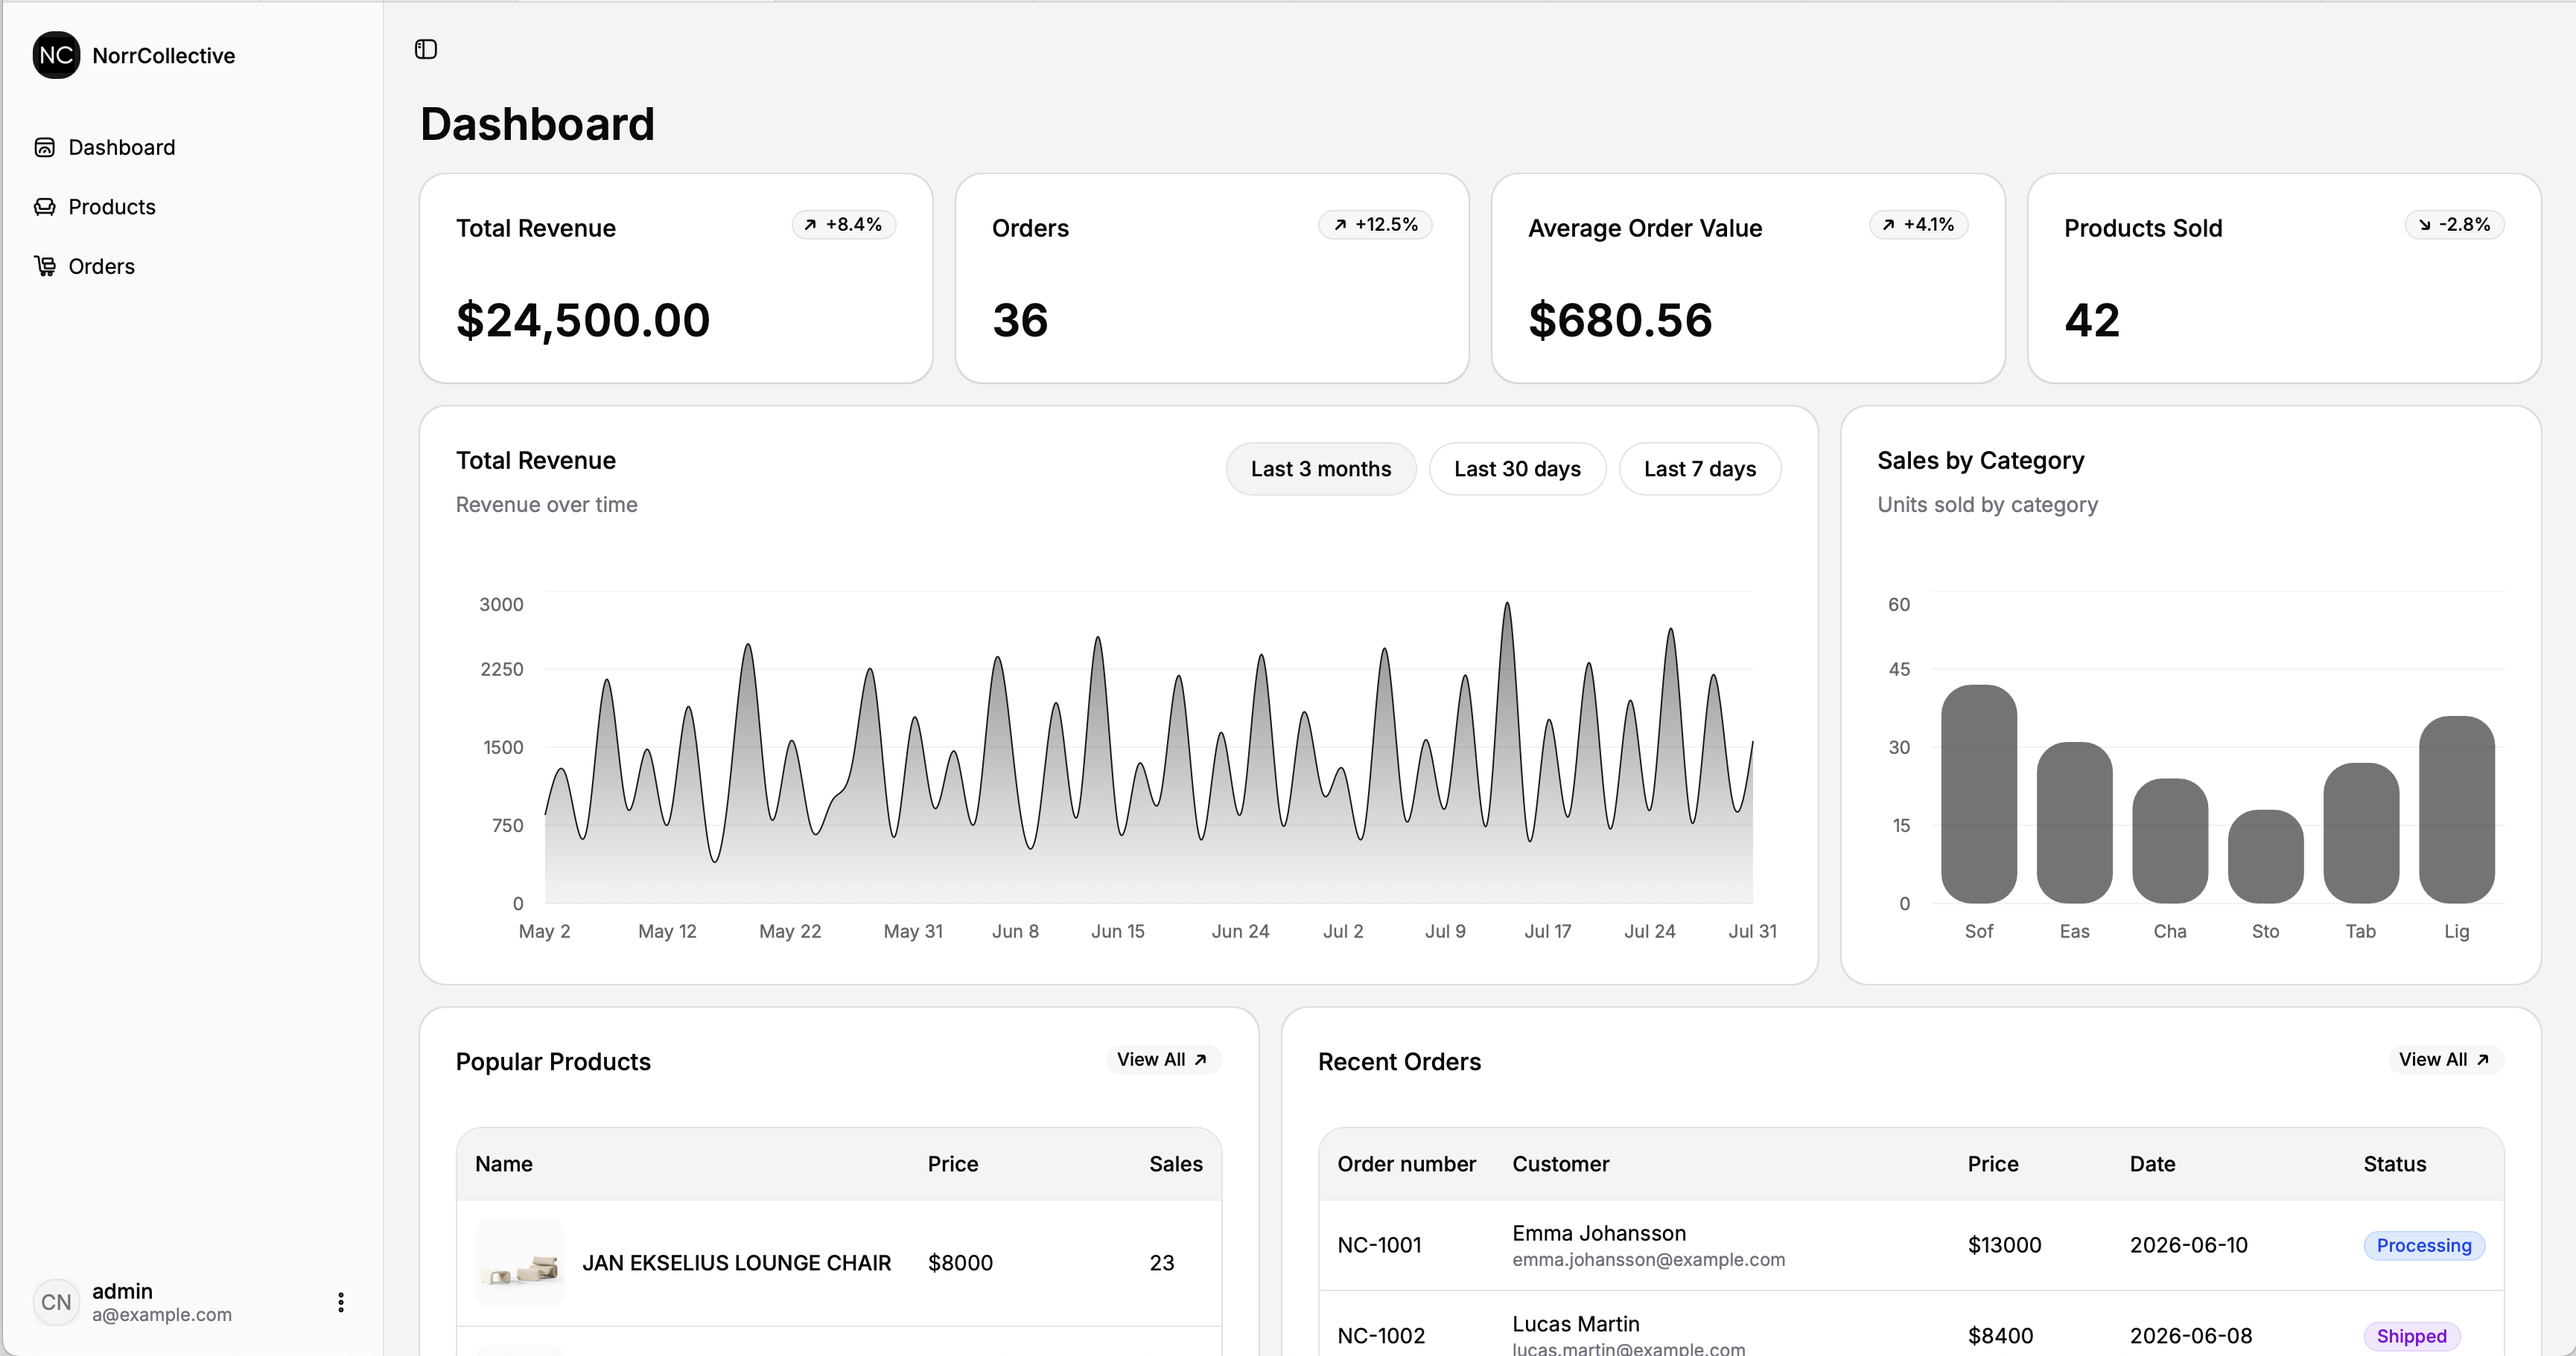
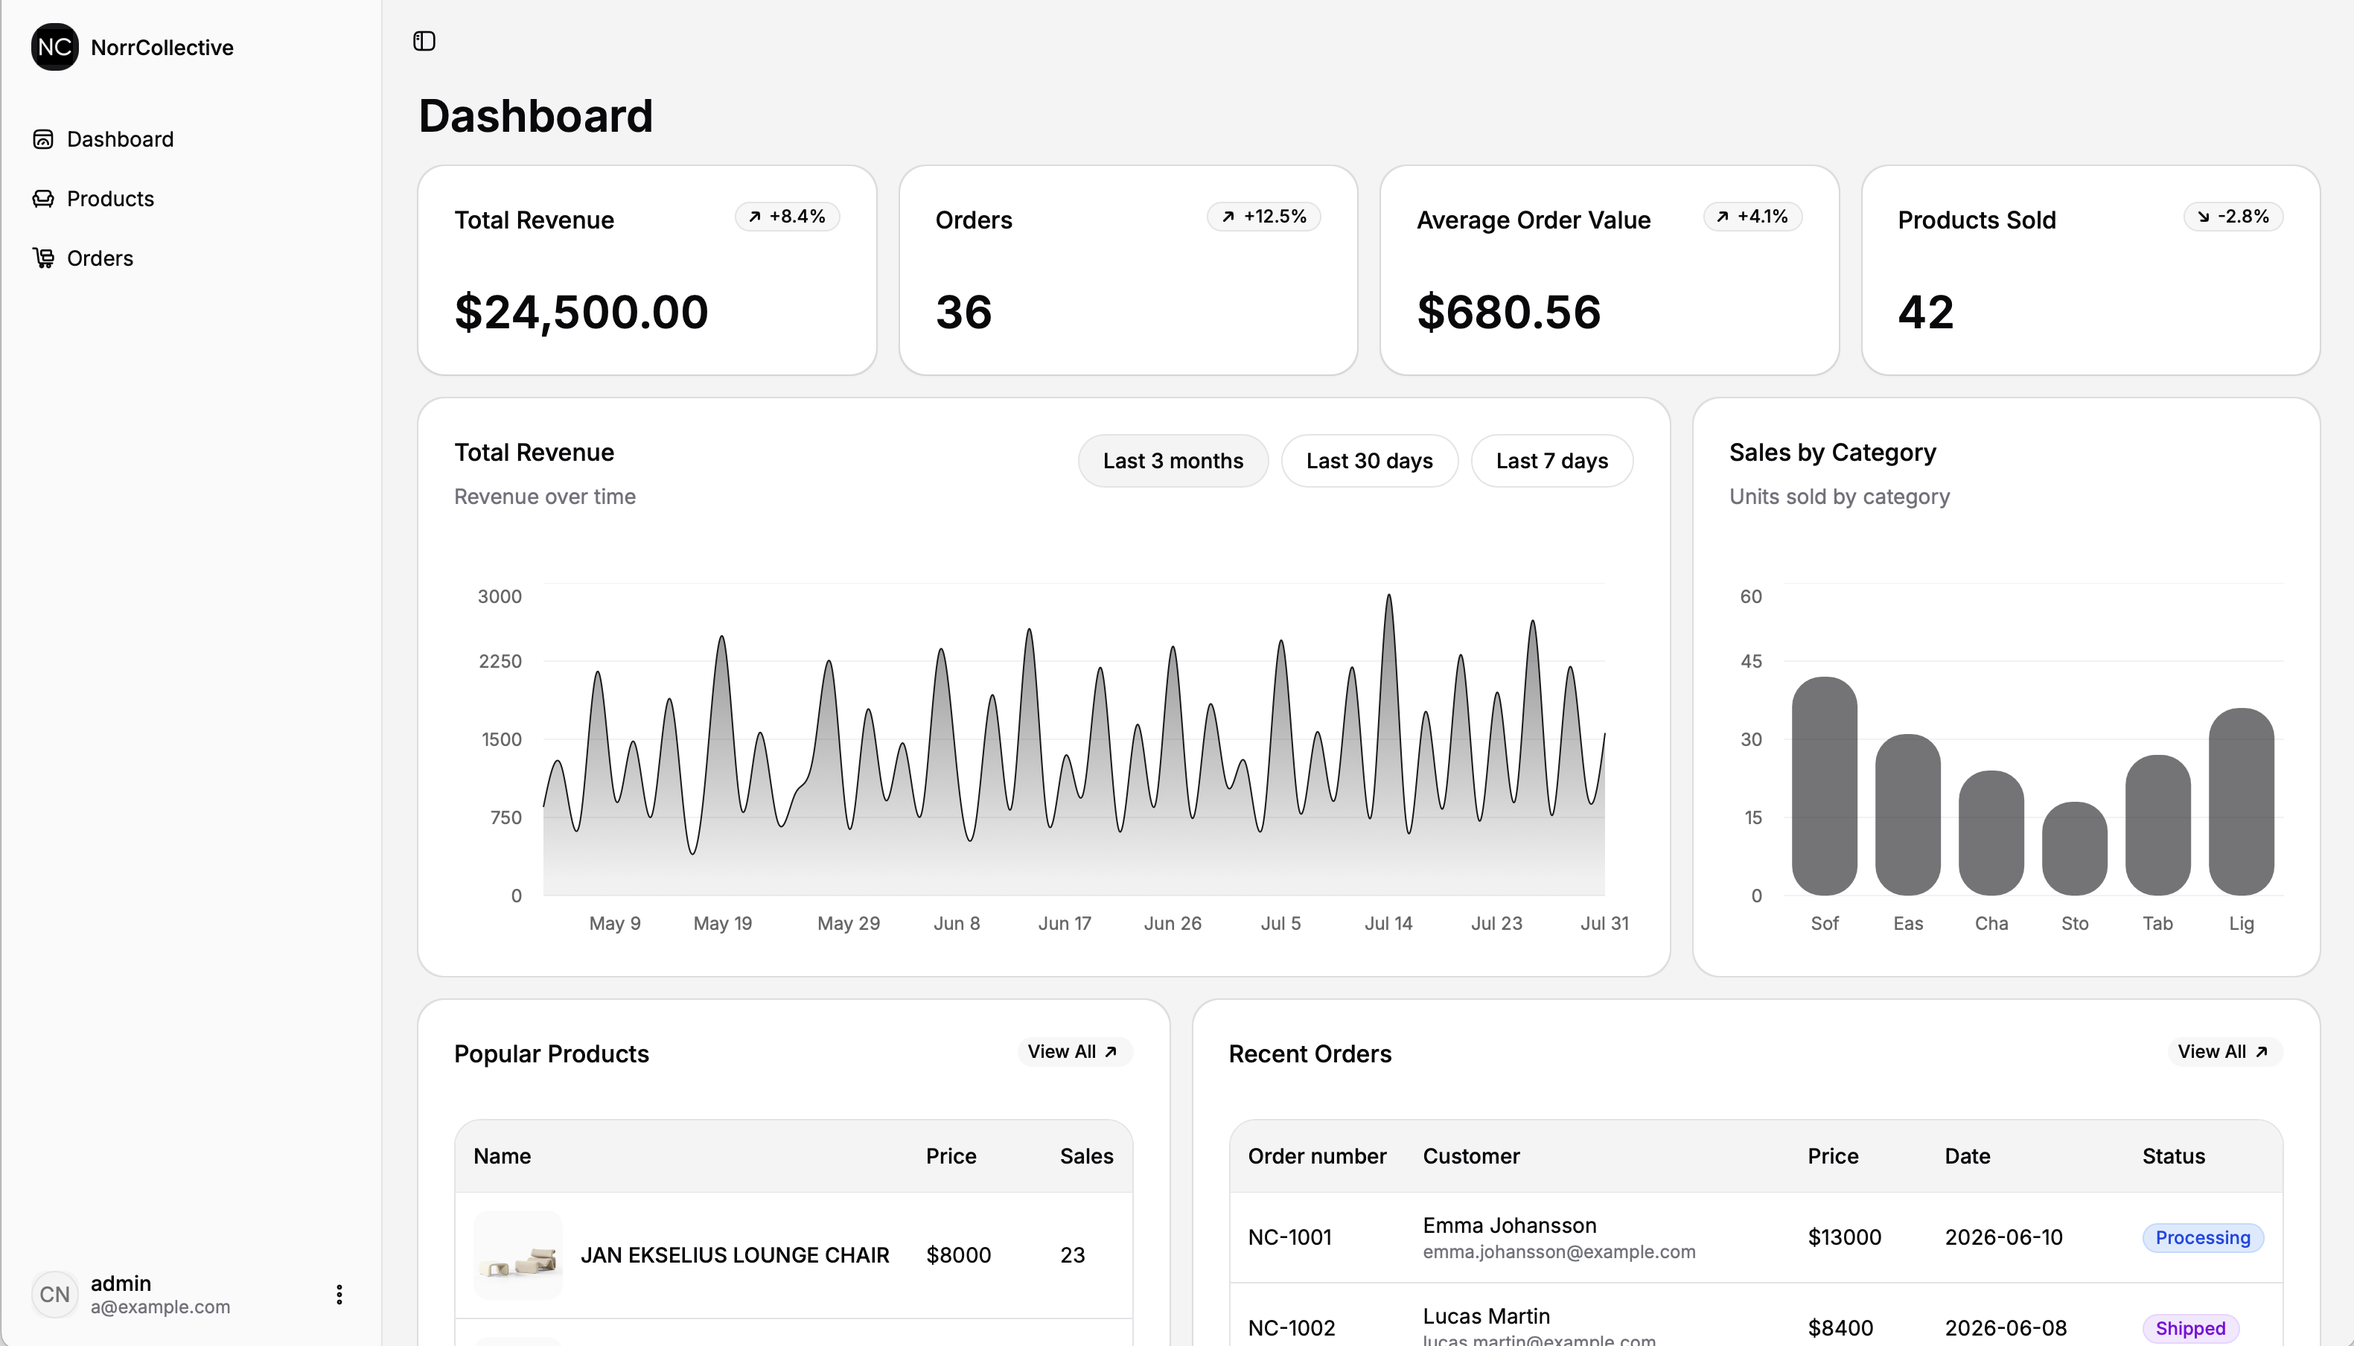
adm

diff --git a/src/components/Works.jsx b/src/components/Works.jsx
@@ -14,7 +14,7 @@ const projects = [
   {
     image: 'norrcollective-admin.png',
     title: 'NorrCollective Admin',
-    text: 'Административная панель для управления интернет-магазином антикварной мебели. \n\n Реализованы таблицы товаров и заказов с поиском, сортировкой, фильтрацией и получением данных из базы данных, а также редактирование, добавление и удаление товаров. Предусмотрена валидация данных в формах добавления и редактирования товаров. Интерфейс построен с помощью UI-компонентов.',
+    text: 'Административная панель для управления интернет-магазином антикварной мебели. \n\n Реализованы таблицы товаров и заказов с поиском, сортировкой, фильтрацией и получением данных из базы, а также редактирование, добавление и удаление товаров. Предусмотрена валидация данных в формах добавления и редактирования товаров. Интерфейс построен с помощью UI-компонентов.',
     tags: [
       'React',
       'shadcn/ui',
